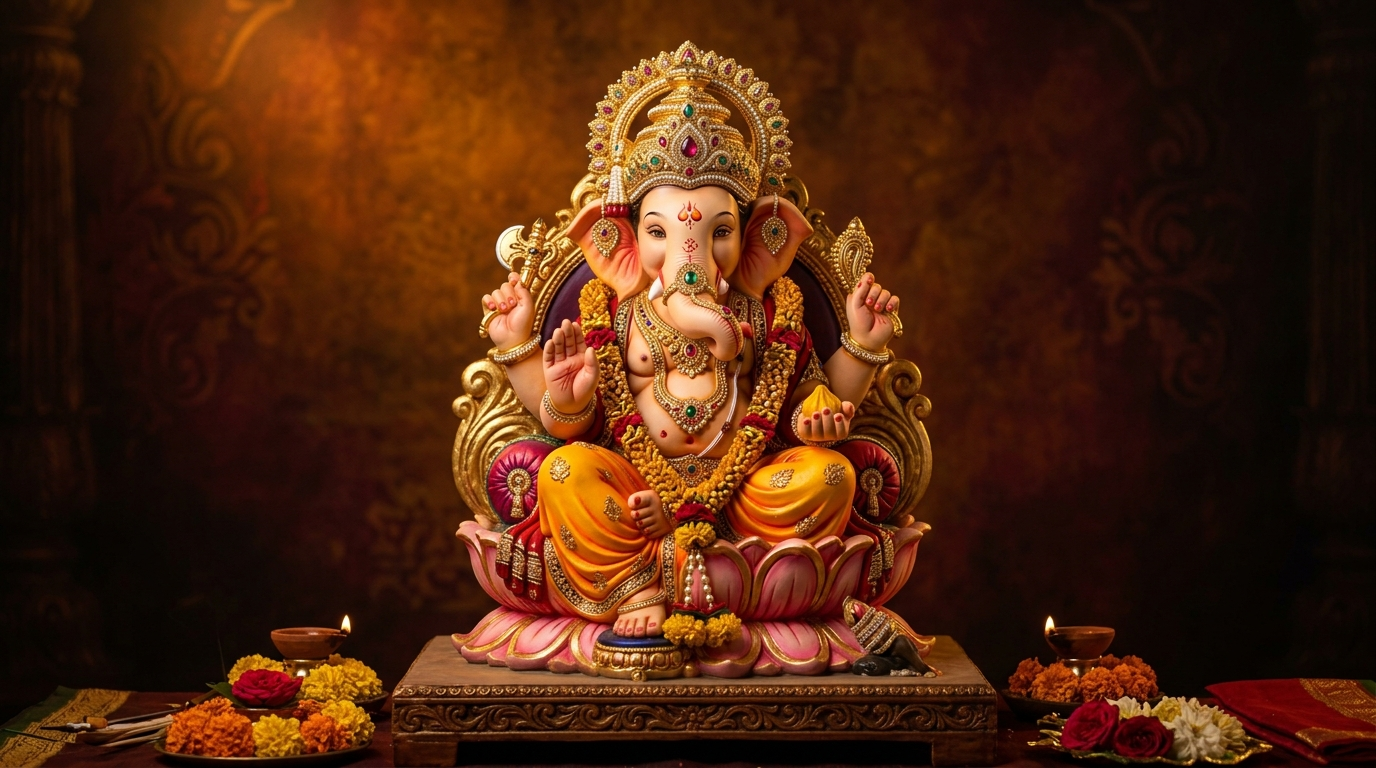
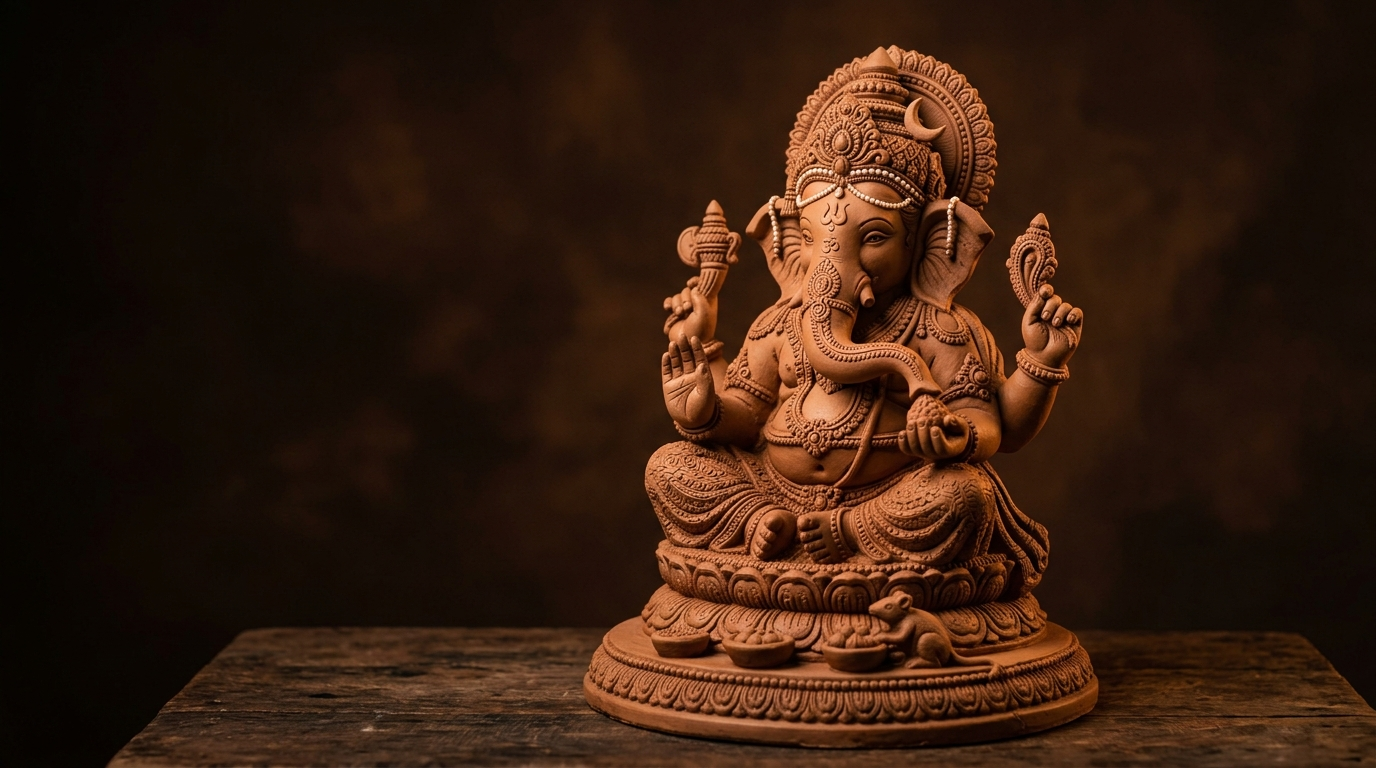
Update images, fix navigation, add real Contact page
- Replace AI images with natural clay Ganesh idol photos matching original style
- Remove duplicate Idols nav link (same as Collections)
- Add Contact nav link at end of header navigation
- Create dedicated Contact page with real studio info:
  - Phone: +91 99670 59099
  - Email: sameer14patil@gmail.com
  - Address: House No. 113, Ganesh Nivas, Near Datta Mandir, Navghar Goan, Bhayandar East
- Add Google Maps embed for studio location
- Add Contact inquiry form
- Update footer with real contact details and Contact link
- Remove demo contact chip from footer

diff --git a/client/src/index.css b/client/src/index.css
@@ -118,3 +118,14 @@ h1 em,h2 em,h3 em { font-weight:400; }
 @media (max-width:1023px) { .site-nav { gap:1.2rem; }.hero__copy { margin-left:clamp(2rem,9vw,7rem); }.category-rail { gap:.8rem; }.product-grid,.product-grid--all { grid-template-columns:repeat(3,minmax(0,1fr)); }.craft-section__panel { padding:clamp(2.5rem,6vw,5rem); }.custom-form-section { padding-left:5vw; padding-right:5vw; }.product-layout { padding-left:5vw; padding-right:5vw; gap:3rem; }.info-page__hero>div { padding-left:6vw; padding-right:5vw; } }
 @media (max-width:767px) { body { font-size:14px; }.section-pad { padding:4.5rem 1.25rem; }.site-header__inner { height:66px; padding:0 1.25rem; }.brand-mark__word { font-size:18px; }.brand-mark__symbol { width:25px; height:30px; }.site-nav { display:none; }.site-header__actions { gap:.35rem; }.site-header__actions>button:not(.mobile-menu-toggle),.icon-link { width:31px; }.mobile-menu-toggle { display:grid!important; place-items:center; margin-left:.25rem; }.mobile-nav { position:fixed; z-index:60; inset:0; display:flex; flex-direction:column; padding:1.2rem 1.4rem 2.5rem; background:var(--paper); color:var(--ink); visibility:hidden; opacity:0; transform:translateX(100%); transition:transform .38s var(--ease-out),opacity .3s,visibility .3s; }.mobile-nav--open { visibility:visible; opacity:1; transform:translateX(0); }.mobile-nav__top { display:flex; align-items:center; justify-content:space-between; }.mobile-nav__top button { display:grid; place-items:center; width:40px; height:40px; }.mobile-nav__links { display:flex; flex-direction:column; margin-top:14vh; }.mobile-nav__links a { display:flex; align-items:center; gap:1rem; padding:.75rem 0; border-bottom:1px solid var(--line); font-family:var(--serif); font-size:clamp(2.5rem,10vw,4rem); line-height:.95; }.mobile-nav__links span { color:var(--clay); font-family:var(--sans); font-size:9px; font-weight:700; letter-spacing:.1em; }.mobile-nav>p { margin-top:auto; color:#827468; font-family:var(--serif); font-size:22px; line-height:1; }.intro__ganapati { width:min(75vw,260px); }.hero { min-height:740px; align-items:flex-end; }.hero__image { object-position:59% center; }.hero__veil { background:linear-gradient(90deg,rgba(30,20,14,.79),rgba(30,20,14,.12)),linear-gradient(0deg,rgba(18,11,7,.77),transparent 52%); }.hero__frame { inset:5rem 1.25rem 1.1rem; }.hero__copy { width:calc(100% - 2.5rem); margin:0 1.25rem 7rem; }.hero h1 { font-size:clamp(4rem,20vw,6rem); }.hero__copy>p:not(.hero__label) { max-width:280px; font-size:13px; }.hero__actions { flex-direction:column; align-items:flex-start; }.hero__actions .btn { width:auto; }.hero__bottom { left:1.25rem; right:1.25rem; bottom:1.4rem; }.hero__bottom p:last-child { display:none; }.section-heading--split,.section-heading--row { display:block; }.section-heading>p { margin-top:1.5rem; }.section-heading--row>.text-link { margin-top:1.3rem; }.category-rail { display:flex; width:max-content; gap:.9rem; margin-right:-1.25rem; overflow:hidden; }.category-card { width:80vw; }.category-card:nth-child(2) { transform:translateY(1.8rem); }.category-card__image-wrap,.category-card:nth-child(2) .category-card__image-wrap { height:420px; }.category-card__copy h3 { font-size:29px; }.product-grid,.product-grid--all { grid-template-columns:repeat(2,minmax(0,1fr)); gap:2rem .8rem; margin-top:2.5rem; }.product-card__quick-add { display:none; }.product-card__name { font-size:19px; }.product-card__details { display:block; }.product-card__price { padding-top:.45rem; }.craft-section,.bespoke,.eco-section,.countdown-section,.stories,.site-footer__top,.custom-page__hero,.info-page__hero,.custom-form-section,.contact-section { grid-template-columns:1fr; }.craft-section { min-height:0; }.craft-section__image { min-height:370px; }.craft-section__panel { min-height:480px; padding:4rem 1.25rem; }.craft-section h2 { font-size:4rem; }.bespoke { gap:2.5rem; }.bespoke__content { max-width:none; }.eco-section__image { padding:1.25rem; }.eco-section__image img { min-height:390px; }.eco-section__copy { padding:4rem 1.25rem; }.countdown-section { gap:2.5rem; padding:4rem 1.25rem; }.countdown b { font-size:3.35rem; }.countdown span { font-size:7px; letter-spacing:.08em; }.trust-grid { grid-template-columns:1fr 1fr; margin-top:2.5rem; }.trust-grid article:nth-child(3) { border-left:1px solid var(--line); }.trust-grid article { min-height:230px; padding:1rem; }.trust-grid__mark { margin-top:2rem; }.stories { padding:4.5rem 1.25rem; }.stories__notice { padding:1.4rem; }.stories__notice p { font-size:23px; }.moments-grid { grid-template-columns:1fr 1fr; gap:.55rem; margin-top:2.5rem; }.moments-grid img,.moments-grid img:nth-child(2),.moments-grid img:nth-child(3) { height:230px; margin:0; }.moments-grid img:nth-child(2) { margin-top:2rem; }.moments-grid img:nth-child(3) { margin-top:-2rem; }.about-teaser { grid-template-columns:1fr; gap:3rem; padding:5rem 1.25rem; }.about-teaser__gesture { font-size:10rem; }.site-footer__top { gap:3rem; }.site-footer__bottom { flex-direction:column; gap:.5rem; }.page-shell { padding-top:66px; }.page-hero { padding:4rem 1.25rem 3rem; }.page-hero h1,.utility-page__head h1,.checkout-page__head h1 { font-size:4rem; }.collection-controls { padding:1rem 1.25rem; }.desktop-filters { display:none; }.filter-toggle { display:flex; flex:0 0 auto; }.category-tabs { gap:1.1rem; }.filter-sheet { position:fixed; z-index:70; inset:auto 0 0; display:flex; flex-direction:column; gap:1.2rem; padding:1.5rem 1.25rem 2rem; background:var(--paper); box-shadow:0 -20px 50px rgba(31,24,18,.23); transform:translateY(110%); transition:transform .35s var(--ease-out); }.filter-sheet--open { transform:translateY(0); }.filter-sheet__bar { display:flex; justify-content:space-between; align-items:center; }.filter-sheet__bar p { font-family:var(--serif); font-size:32px; line-height:.8; }.filter-sheet>div:not(.filter-sheet__bar) { display:flex; flex-wrap:wrap; gap:.6rem; }.filter-sheet>div>p { width:100%; font-size:9px; font-weight:700; letter-spacing:.1em; text-transform:uppercase; }.filter-sheet>div button { padding:.45rem .65rem; border:1px solid var(--line); font-size:10px; }.filter-sheet>div button.is-active { border-color:var(--ink); background:var(--ink); color:var(--paper); }.filter-sheet .btn { margin-top:.4rem; }.collection-results { padding:1.4rem 1.25rem 5rem; }.product-back { padding:1rem 1.25rem; }.product-back span { display:none; }.product-layout { grid-template-columns:1fr; gap:1.2rem; padding:0 1.25rem 5rem; }.product-gallery__main { height:112vw; }.product-summary { padding-top:1.5rem; }.product-summary h1 { font-size:4.2rem; }.product-summary__actions { grid-template-columns:auto 1fr 48px; }.custom-page__hero { min-height:0; }.custom-page__hero>div,.info-page__hero>div { padding:5rem 1.25rem 3rem; }.custom-page__hero h1,.info-page__hero h1 { font-size:4rem; }.custom-page__hero img,.info-page__hero>img { height:420px; }.custom-form-section { gap:3rem; padding:4.5rem 1.25rem; }.form-grid { grid-template-columns:1fr; }.form-grid__full { grid-column:auto; }.inquiry-form { padding:1.4rem; }.utility-page,.cart-page,.checkout-page { padding:66px 1.25rem 5rem; }.utility-page__head { padding:4rem 0 2.5rem; }.cart-page__layout,.checkout-layout { grid-template-columns:1fr; gap:2rem; }.cart-page__item { grid-template-columns:85px 1fr; }.cart-page__item img { width:85px; height:105px; }.cart-page__item>div:last-child { grid-column:2; flex-direction:row; align-items:center; }.order-summary { order:-1; }.checkout-page__head { padding:3rem 0 2rem; }.info-page { padding-top:66px; }.info-page__hero>div { padding:4.5rem 1.25rem 3rem; }.process-strip { grid-template-columns:1fr; padding:3rem 1.25rem; }.process-strip>div,.process-strip>div:last-child { border:0; border-top:1px solid rgba(50,37,27,.26); }.about-body { padding:5rem 1.25rem; }.contact-section { padding:4.5rem 1.25rem; }.search-sheet { min-height:60vh; padding:4rem 1.25rem 2rem!important; }.cart-sheet [data-slot=sheet-header] { padding:1.7rem 1.25rem .8rem!important; }.cart-sheet__items { padding:0 1.25rem; }.cart-sheet__footer { padding-left:1.25rem; padding-right:1.25rem; } }
 @media (prefers-reduced-motion:reduce) { *,*:before,*:after { animation-duration:.01ms!important; animation-iteration-count:1!important; transition-duration:.01ms!important; scroll-behavior:auto!important; }.intro { display:none; }.hero__image { animation:none; } }
+
+/* -- Contact Page -- */
+.contact-list { list-style:none; padding:0; margin:2rem 0 2.5rem; display:flex; flex-direction:column; gap:1.4rem; }
+.contact-list li { display:flex; align-items:flex-start; gap:1rem; }
+.contact-list li svg { flex-shrink:0; margin-top:2px; color:var(--clay); }
+.contact-list li div { display:flex; flex-direction:column; gap:.25rem; }
+.contact-list li strong { font-family:var(--sans); font-size:9px; font-weight:700; letter-spacing:.12em; text-transform:uppercase; color:var(--clay); }
+.contact-list li span, .contact-list li a { font-family:var(--serif); font-size:1.05rem; color:var(--ink); line-height:1.4; text-decoration:none; }
+.contact-list li a:hover { text-decoration:underline; }
+.contact-map { margin-top:2rem; border-radius:4px; overflow:hidden; border:1px solid var(--line); }
+@media (max-width:767px) { .contact-list li svg { margin-top:3px; } .contact-map { margin-top:1.5rem; } }

diff --git a/client/src/pages/Contact.tsx b/client/src/pages/Contact.tsx
@@ -1,0 +1,118 @@
+/** Ganesh Chitra Shaala — Contact page with real studio information. */
+import { useState } from "react";
+import { ArrowRight, Check, Clock, Mail, MapPin, Phone } from "lucide-react";
+import { siteConfig } from "@/lib/data";
+
+export default function ContactPage() {
+  const [sent, setSent] = useState(false);
+
+  return (
+    <main className="page-shell info-page info-page--contact">
+
+      {/* ── Hero ── */}
+      <section className="info-page__hero">
+        <div>
+          <p className="page-hero__eyebrow">Reach the studio</p>
+          <h1>Get in <em>touch.</em></h1>
+          <p>We'd love to hear from you. Whether it's an order, a custom request, or just a question — write to us or visit the studio.</p>
+        </div>
+        <img src={siteConfig.images.craft} alt="Artisan crafting a Ganesh idol at Ganesh Chitra Shaala" />
+      </section>
+
+      {/* ── Contact details + form ── */}
+      <section className="contact-section">
+
+        {/* Left — details */}
+        <div className="contact-details">
+          <p className="section-label"><span>Studio</span>Ganesh Chitra Shaala</p>
+          <h2>Find us,<br />visit <em>anytime.</em></h2>
+
+          <ul className="contact-list">
+            <li>
+              <MapPin size={18} strokeWidth={1.6} />
+              <div>
+                <strong>Address</strong>
+                <span>{siteConfig.contact.address}</span>
+              </div>
+            </li>
+            <li>
+              <Phone size={18} strokeWidth={1.6} />
+              <div>
+                <strong>Phone / WhatsApp</strong>
+                <a href={`tel:${siteConfig.contact.whatsapp}`}>{siteConfig.contact.phone}</a>
+              </div>
+            </li>
+            <li>
+              <Mail size={18} strokeWidth={1.6} />
+              <div>
+                <strong>Email</strong>
+                <a href={`mailto:${siteConfig.contact.email}`}>{siteConfig.contact.email}</a>
+              </div>
+            </li>
+            <li>
+              <Clock size={18} strokeWidth={1.6} />
+              <div>
+                <strong>Studio Hours</strong>
+                <span>{siteConfig.contact.hours}</span>
+              </div>
+            </li>
+          </ul>
+
+          {/* Google Maps embed — Bhayandar East */}
+          <div className="contact-map">
+            <iframe
+              title="Ganesh Chitra Shaala Location"
+              src="https://maps.google.com/maps?q=Navghar+Goan+Bhayandar+East+Mumbai&output=embed"
+              width="100%"
+              height="220"
+              style={{ border: 0, borderRadius: "4px" }}
+              allowFullScreen
+              loading="lazy"
+              referrerPolicy="no-referrer-when-downgrade"
+            />
+          </div>
+        </div>
+
+        {/* Right — inquiry form */}
+        <form
+          className="inquiry-form"
+          onSubmit={(e) => { e.preventDefault(); setSent(true); }}
+        >
+          {sent ? (
+            <div className="contact-success">
+              <Check size={32} />
+              <h3>Message sent.</h3>
+              <p>Thank you for reaching out. We'll get back to you within 24 hours.</p>
+            </div>
+          ) : (
+            <>
+              <div className="form-header">
+                <p>Send us a message</p>
+              </div>
+              <label>
+                Your name *
+                <input required placeholder="Full name" />
+              </label>
+              <label>
+                Email *
+                <input required type="email" placeholder="your@email.com" />
+              </label>
+              <label>
+                Phone
+                <input type="tel" placeholder="+91 XXXXX XXXXX" />
+              </label>
+              <label>
+                Message *
+                <textarea required placeholder="Tell us about your requirement — size, occasion, custom details…" rows={5} />
+              </label>
+              <button type="submit" className="btn btn--dark">
+                Send message <ArrowRight size={16} />
+              </button>
+            </>
+          )}
+        </form>
+      </section>
+
+    </main>
+  );
+}

diff --git a/client/src/components/SiteFooter.tsx b/client/src/components/SiteFooter.tsx
@@ -1,9 +1,10 @@
-/** The Atelier Procession: a quiet dark studio close that keeps editable support information centrally referenced. */
+/** The Atelier Procession: a quiet dark studio close with verified studio contact information. */
 import { ArrowUpRight, Instagram } from "lucide-react";
 import { Link } from "wouter";
 import { Brand, GestureDivider } from "@/components/Brand";
 import { siteConfig } from "@/lib/data";
 
 export default function SiteFooter() {
-  return <footer className="site-footer"><GestureDivider light /><div className="site-footer__top"><div><Brand inverted /><p>{siteConfig.tagline}</p><span className="demo-chip">Demo contact details</span></div><div className="footer-links"><div><p>Explore</p><Link href="/idols">Shop idols</Link><Link href="/custom">Custom idols</Link><Link href="/craft">Our craft</Link><Link href="/about">About the studio</Link></div><div><p>Connect</p><a href="#contact">{siteConfig.contact.phone}</a><a href="#contact">{siteConfig.contact.email}</a><a href={siteConfig.contact.instagram}><Instagram size={14}/> Instagram <ArrowUpRight size={13}/></a></div></div></div><div className="site-footer__bottom"><span>© {new Date().getFullYear()} {siteConfig.brand}</span><span>Frontend concept · Information marked as demo must be replaced before launch.</span></div></footer>;
+  return <footer className="site-footer"><GestureDivider light /><div className="site-footer__top"><div><Brand inverted /><p>{siteConfig.tagline}</p></div><div className="footer-links"><div><p>Explore</p><Link href="/idols">Shop idols</Link><Link href="/custom">Custom idols</Link><Link href="/craft">Our craft</Link><Link href="/about">About the studio</Link><Link href="/contact">Contact</Link></div><div><p>Connect</p><a href={`tel:${siteConfig.contact.whatsapp}`}>{siteConfig.contact.phone}</a><a href={`mailto:${siteConfig.contact.email}`}>{siteConfig.contact.email}</a><a href={siteConfig.contact.instagram}><Instagram size={14}/> Instagram <ArrowUpRight size={13}/></a></div></div></div><div className="site-footer__bottom"><span>© {new Date().getFullYear()} {siteConfig.brand}</span><span>{siteConfig.contact.address}</span></div></footer>;
 }
+

diff --git a/client/src/components/SiteHeader.tsx b/client/src/components/SiteHeader.tsx
@@ -6,11 +6,11 @@ import { Brand } from "@/components/Brand";
 import { useStore } from "@/contexts/StoreContext";
 
 const links = [
-  ["Idols", "/idols"],
   ["Collections", "/idols"],
   ["Custom", "/custom"],
   ["Our Craft", "/craft"],
   ["About", "/about"],
+  ["Contact", "/contact"],
 ] as const;
 
 export default function SiteHeader({ onSearch }: { onSearch: () => void }) {
@@ -43,7 +43,7 @@ export default function SiteHeader({ onSearch }: { onSearch: () => void }) {
       {menuOpen && <div id="mobile-primary-navigation" className="mobile-nav mobile-nav--open" style={{ backgroundColor: "var(--paper)", backgroundImage: "none", opacity: 1 }}>
         <div className="mobile-nav__top"><Brand compact /><button aria-label="Close menu" onClick={() => setMenuOpen(false)}><X /></button></div>
         <p className="mobile-nav__eyebrow">Explore the studio</p>
-        <div className="mobile-nav__links">{links.map(([label, href], i) => <Link key={label} href={href} onClick={() => setMenuOpen(false)}><span>0{i + 1}</span>{label}{["Custom", "Our Craft", "About"].includes(label) && <small>Studio</small>}</Link>)}</div>
+        <div className="mobile-nav__links">{links.map(([label, href], i) => <Link key={label} href={href} onClick={() => setMenuOpen(false)}><span>0{i + 1}</span>{label}{["Custom", "Our Craft", "About", "Contact"].includes(label) && <small>Studio</small>}</Link>)}</div>
         <p>Considered forms, shaped for celebration.</p>
       </div>}
     </header>

diff --git a/client/src/lib/data.ts b/client/src/lib/data.ts
@@ -8,12 +8,12 @@ export const siteConfig = {
   tagline: "A form of joy, shaped by hand.",
   demoNotice: "Prototype content — replace with verified studio information before launch.",
   contact: {
-    phone: "[Demo Number]",
-    whatsapp: "[Demo Number]",
-    email: "[Demo Email]",
-    address: "[Demo Studio Address — to be provided]",
-    hours: "[Demo business hours — to be confirmed]",
-    instagram: "[Demo Instagram URL]",
+    phone: "+91 99670 59099",
+    whatsapp: "9967059099",
+    email: "sameer14patil@gmail.com",
+    address: "House No. 113, Ganesh Nivas, Near Datta Mandir, Navghar Goan, Bhayandar East",
+    hours: "Mon – Sat: 9:00 AM – 8:00 PM",
+    instagram: "[Instagram URL]",
   },
   festivalDate: "2026-09-14T06:00:00+05:30",
   images: {

diff --git a/client/src/App.tsx b/client/src/App.tsx
@@ -21,7 +21,7 @@ const CheckoutPage = lazy(() => import("./pages/UtilityPages").then((module) => 
 const WishlistPage = lazy(() => import("./pages/UtilityPages").then((module) => ({ default: module.WishlistPage })));
 const CraftPage = lazy(() => import("./pages/UtilityPages").then((module) => ({ default: () => <module.InfoPage kind="craft" /> })));
 const AboutPage = lazy(() => import("./pages/UtilityPages").then((module) => ({ default: () => <module.InfoPage kind="about" /> })));
-const ContactPage = lazy(() => import("./pages/UtilityPages").then((module) => ({ default: () => <module.InfoPage kind="contact" /> })));
+const ContactPage = lazy(() => import("./pages/Contact"));
 
 function Router() {
   return <Switch>
